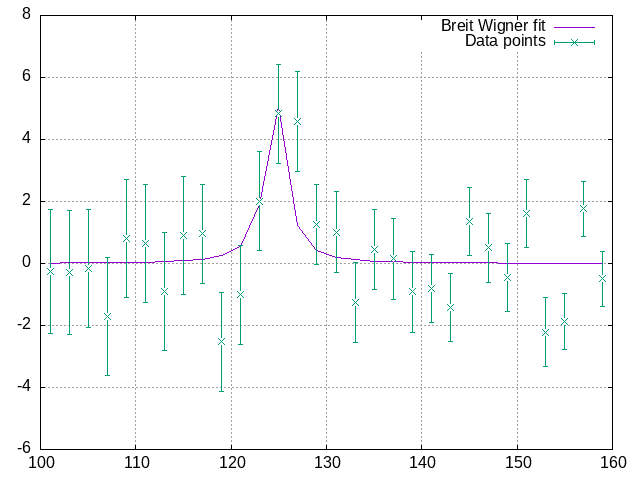
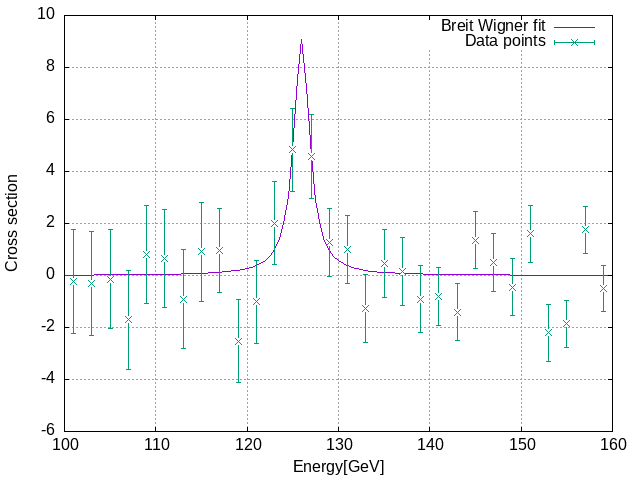
nice looking readme

diff --git a/homework/Minimization/main.cs b/homework/Minimization/main.cs
@@ -42,7 +42,7 @@ class minimization{
         vector error1 = new vector(error.data);
 
         Func<vector,double> from_many_to_1 = (vector gæt) => D(energy1,cross1,error1,gæt);
-        vector start_gæt = new vector(125,2,10);
+        vector start_gæt = new vector(125,2,13);
 
 /*
 Jeg havde en masse bøvl med at få den til at virke 
@@ -54,13 +54,13 @@ Jeg havde en masse bøvl med at få den til at virke
 */ 
 
         //Jeg har fundet at mange iterations ikke gør noget når den sidder fast, istedet sætter jeg accuracy op
-        MIN A1 = new MIN(from_many_to_1,start_gæt, 0.00001, 15);
+        MIN A1 = new MIN(from_many_to_1,start_gæt, 0.00001, 400);
 
         Error.Write($"My values are: n = {A1.count} iterations, value = {A1.value_min}\n");
         Error.Write($"and the params are m= {A1.min_point[0]}, gamma= {A1.min_point[1]} A = {A1.min_point[2]}\n");
         
-        for(int i=0; i<energy1.size;i++){
-            Write($"{energy1[i]} {breit_wigner(energy1[i],A1.min_point[0],A1.min_point[1],A1.min_point[2])}\n");
+        for(double i=100; i<160 ;i+=0.5){
+            Write($"{i} {breit_wigner(i,A1.min_point[0],A1.min_point[1],A1.min_point[2])}\n");
         }
         }// main stops
 
